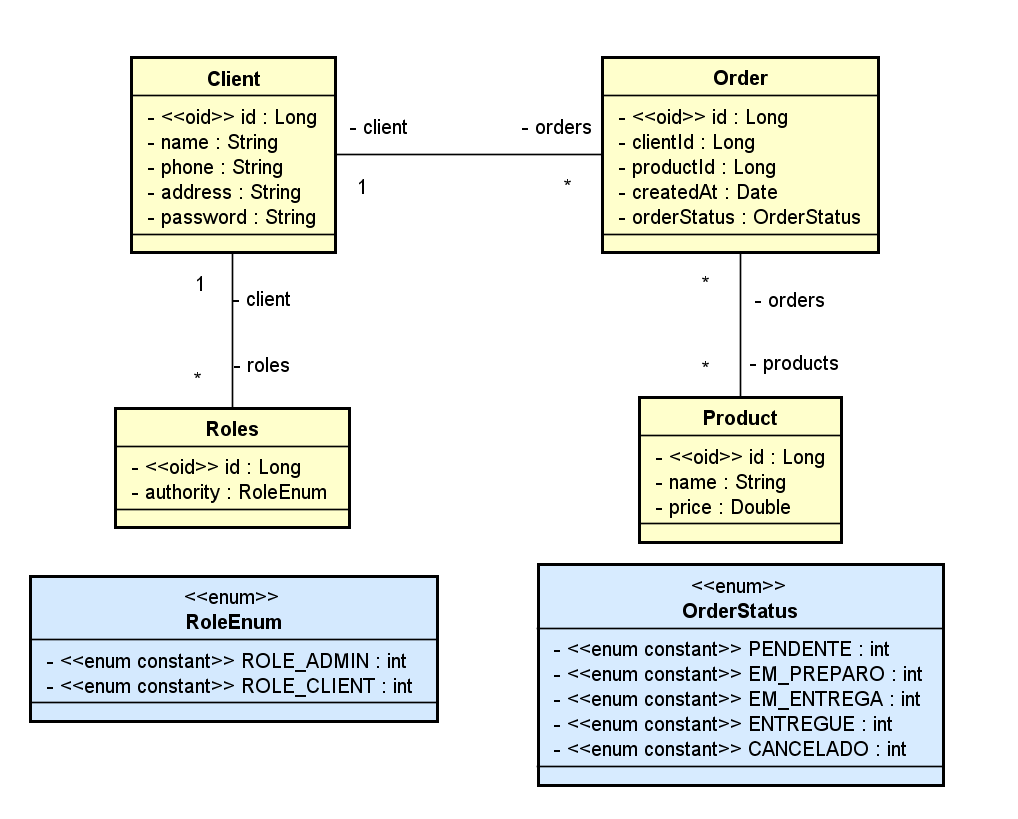
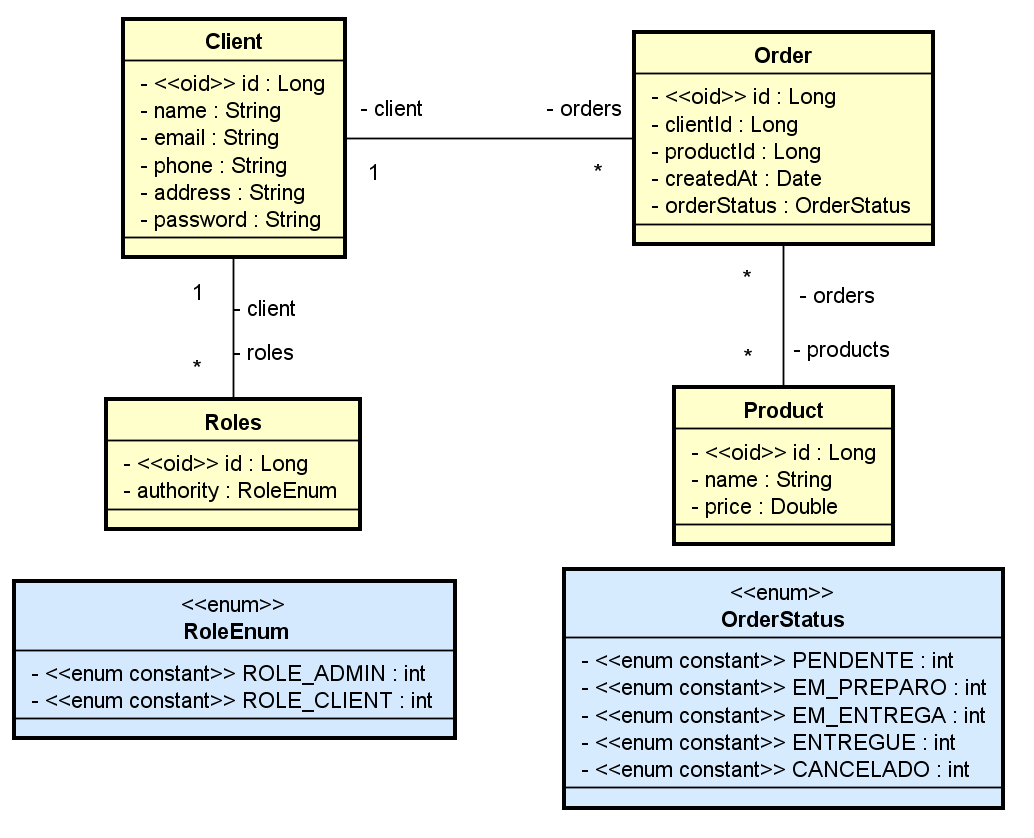
Database seeding with clients

Changed region(s): [[0.0, 0.0, 0.9745, 0.9768], [0.7004, 0.3968, 0.7308, 0.4274]]

diff --git a/src/main/java/io/github/aplaraujo/entities/Client.java b/src/main/java/io/github/aplaraujo/entities/Client.java
@@ -17,6 +17,7 @@ public class Client {
     @GeneratedValue(strategy = GenerationType.IDENTITY)
     private Long id;
     private String name;
+    private String email;
     private String phone;
     private String address;
     private String password;
